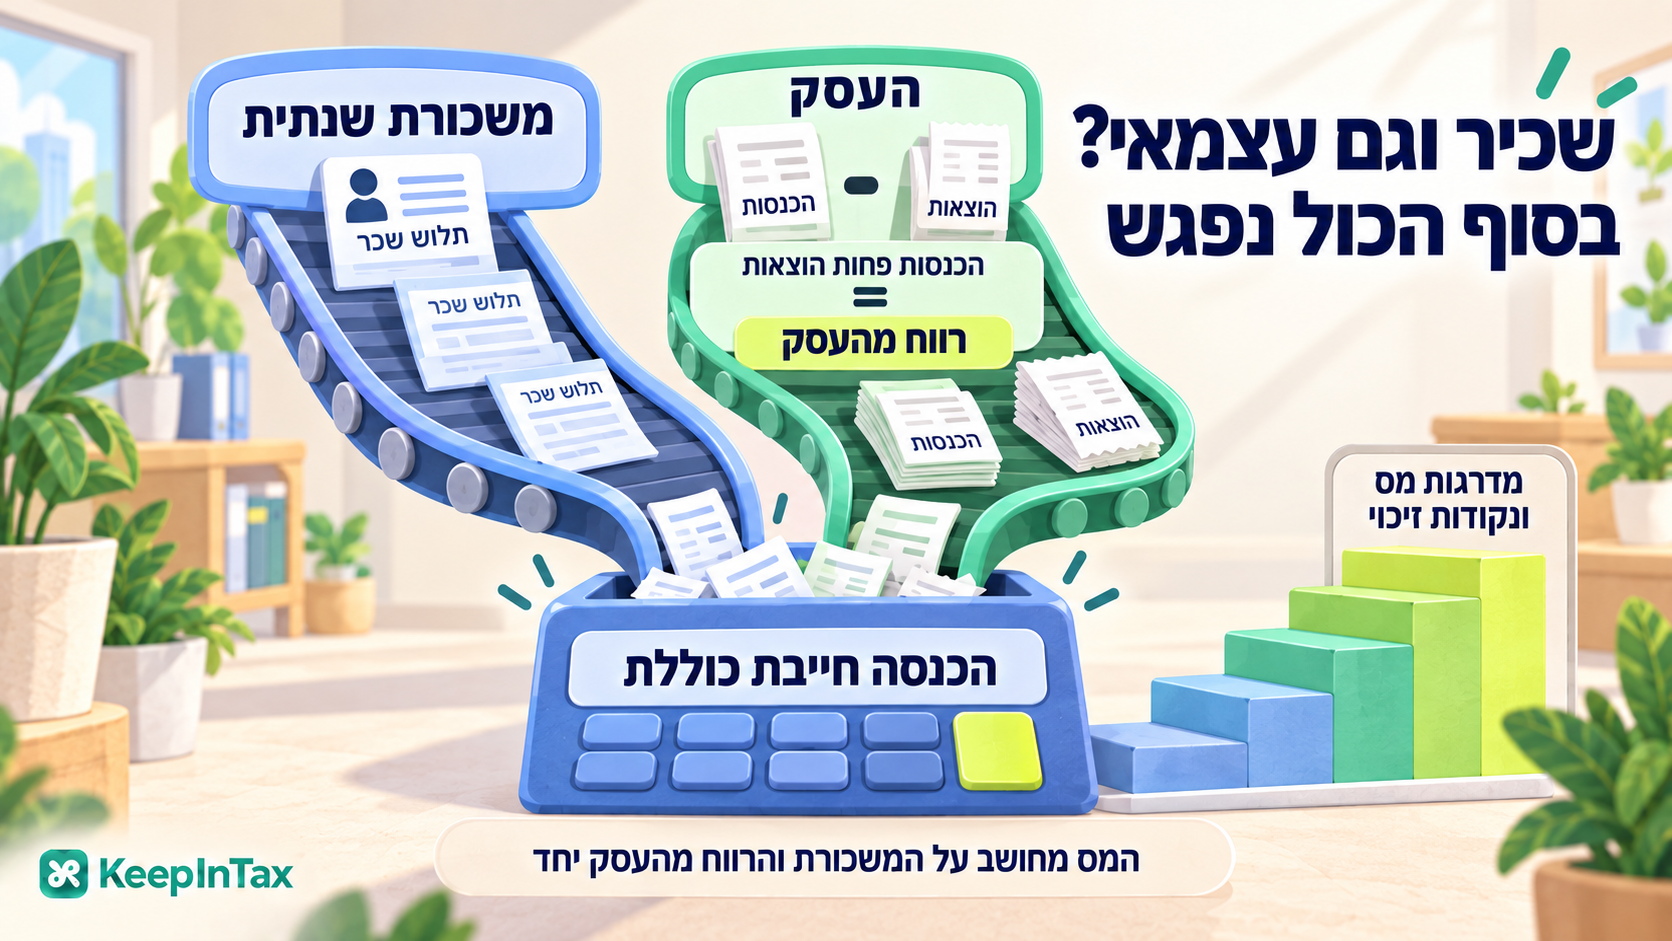
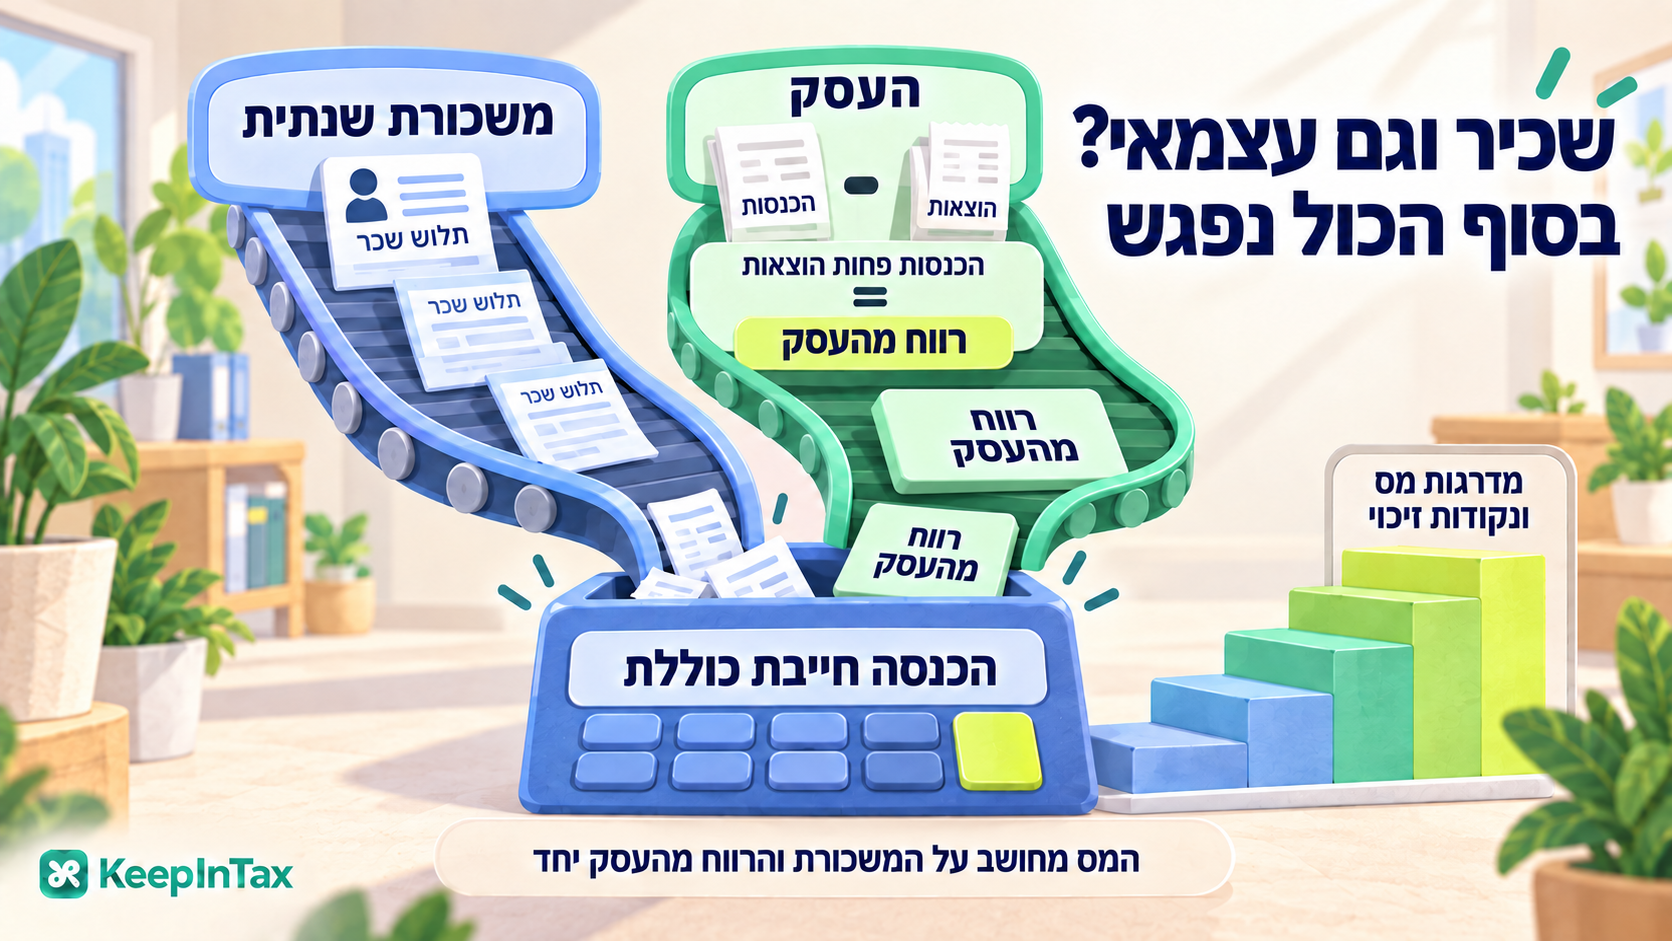
fix(guide): show only business profit entering tax calculator

diff --git a/frontend/src/app/pages/admin-panel/AGENTS.md b/frontend/src/app/pages/admin-panel/AGENTS.md
@@ -18,6 +18,8 @@ Internal admin console (tabbed) for staff to manage clients dashboard, the unifi
 
 ## Main flows
 
+- The combined-income artwork shows revenue minus expenses upstream; only cards labelled `רווח מהעסק` continue into the calculator alongside salary slips. Source edit: `exec-2a71480a-ca58-4207-bed5-c15324b7f2d2.png`, built-in image generation, scoped prompt: replace downstream revenue/expense receipts with business-profit cards and preserve all other artwork.
+
 - The Income Tax hotspot on the authorities slide opens `income-combination` (salary plus business profit). The linear slide order is unchanged.
 
 - Business-registration slide uses the user-approved title `סוגי רישום העסקים בישראל` as a native heading over the original artwork heading; all other artwork remains unchanged.
